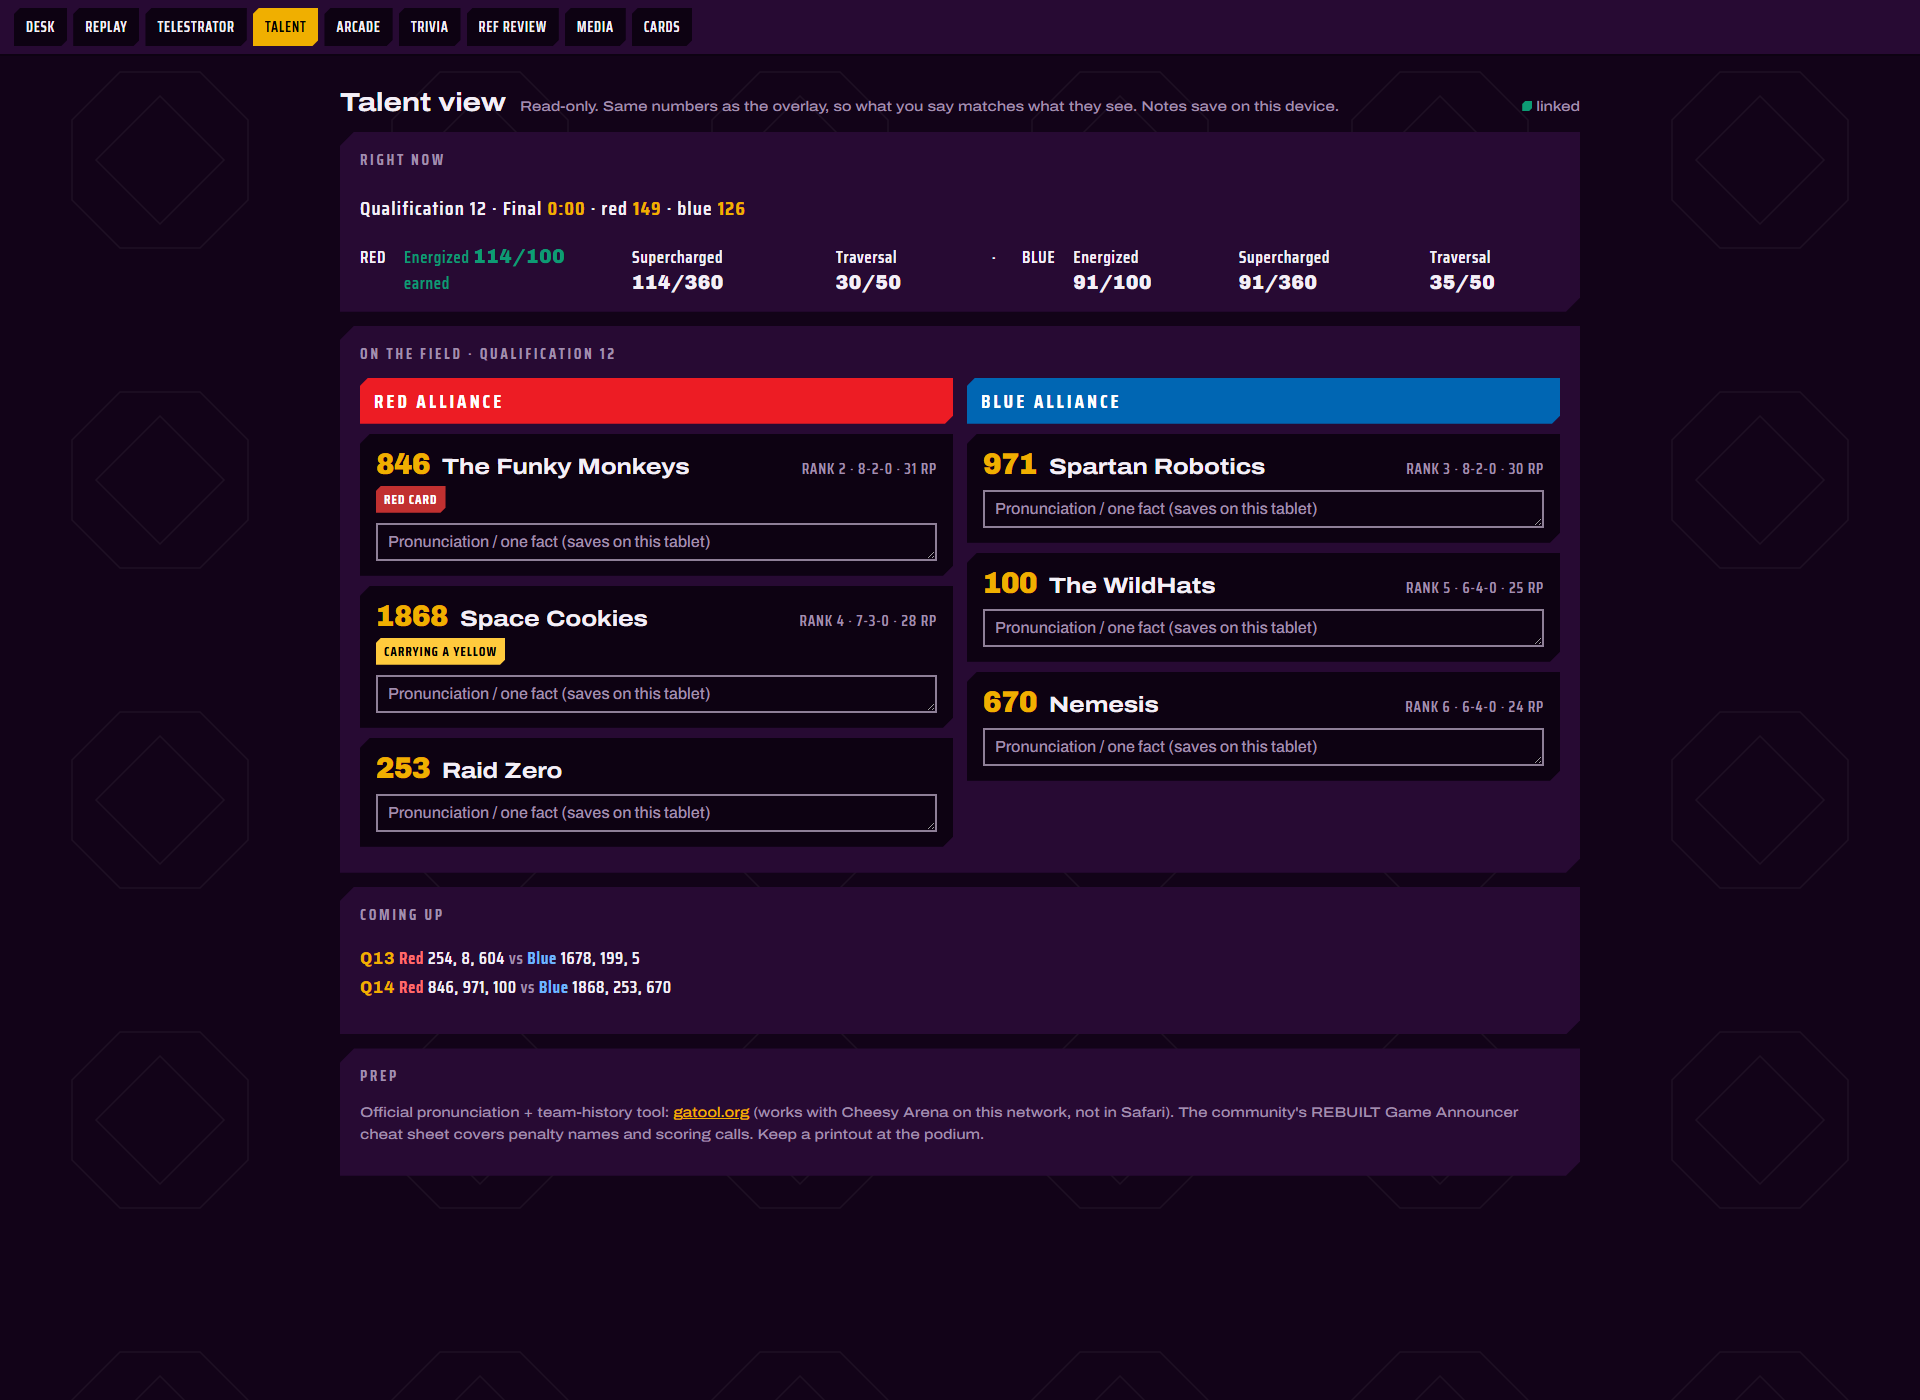
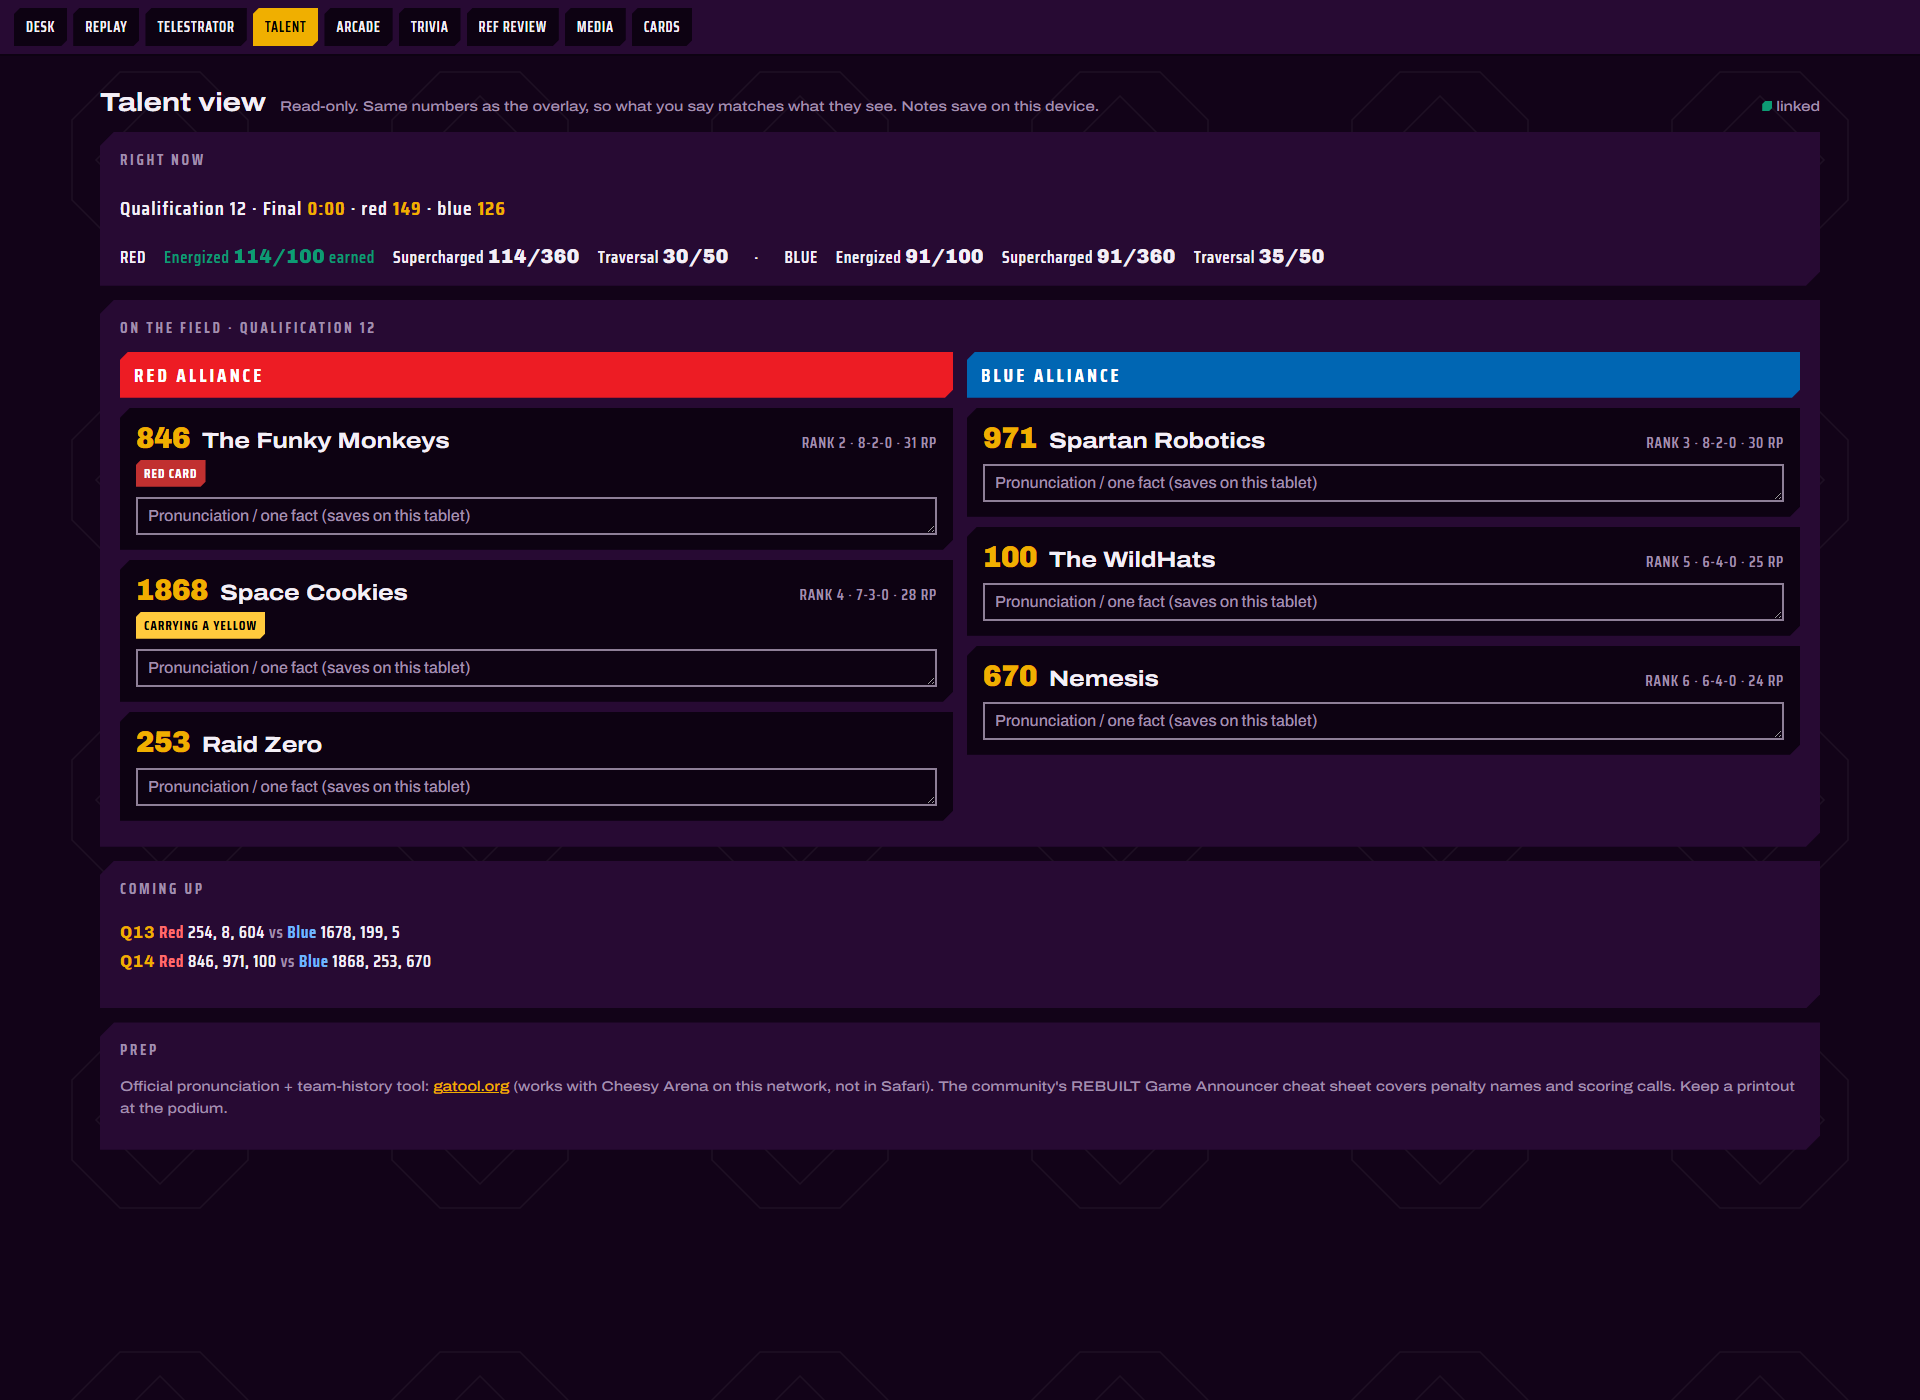
No monitor left with dead space: the index and every capped console go fluid
The landing page was one 860px column on any monitor. Its cards now tile
into as many 540px-minimum columns as the screen has, edge to edge.

The consoles that still carried width caps each get the treatment their
layout actually supports: trivia host flows its sections into 460px
multicol like the desk; arcade the same but at 620px, because five sections
across 460px columns left a fourth column standing empty on a 2400 monitor;
house audio splits its two sections half-and-half (not auto-fit — the
full-width bus plate occupies every repeated track, so empty tracks never
collapse and the sections pinned to minimum width); team media tiles its
upload queue and consent rows and pours the shooting notes into text
columns; head-referee review puts the flagged-moments list beside the
viewer so the ref looks and picks without scrolling; post-match cards caps
its square preview by monitor HEIGHT instead of width so the page can go
fluid without growing a preview taller than the screen; talent widens.

The phone and audience pages keep their narrow columns on purpose.

Verified by screenshot at 2400x1600 on all seven changed pages. 385 tests,
33 previews re-rendered.

Changed region(s): [[0.0312, 0.0614, 0.9688, 0.86], [0.7812, 0.0614, 0.8125, 0.0921]]

diff --git a/surfaces/media/index.html b/surfaces/media/index.html
@@ -8,7 +8,7 @@
 <link rel="stylesheet" href="/shared/fonts.css">
 <style>
 body { font-size: var(--font-ui-body); }
-.wrap { max-width: 1720px; margin: 0 auto; padding: 20px 24px 64px; }
+.wrap { margin: 0 auto; padding: 20px 24px 64px; }
 h1 { font-size: 26px; font-variation-settings: "wdth" 118; margin: 0 0 4px; }
 p.sub { color: var(--text-dim); margin: 0 0 22px; line-height: 1.6; }
 
@@ -19,9 +19,10 @@ p.sub { color: var(--text-dim); margin: 0 0 22px; line-height: 1.6; }
 #drop b { display: block; font-size: 18px; margin-bottom: 6px; }
 #drop span { color: var(--text-dim); }
 
-.queue { margin-top: 18px; }
+.queue { margin-top: 18px; display: grid;
+  grid-template-columns: repeat(auto-fill, minmax(min(560px, 100%), 1fr)); gap: 8px 14px; }
 .item { display: grid; grid-template-columns: 96px 1fr auto; gap: 14px; align-items: center;
-  background: var(--surface-raised); padding: 12px 16px; margin-bottom: 8px;
+  background: var(--surface-raised); padding: 12px 16px;
   clip-path: var(--chamfer); --ch: 10px; }
 /* Preview against the purple the graphic actually uses. White fringing and
    punched-through polycarb are invisible on white and glaring on purple. */
@@ -45,14 +46,19 @@ input:focus { outline: none; border-color: var(--accent); }
   overflow: hidden; clip-path: inset(50%); white-space: nowrap; border: 0; }
 #drop:has(.vh:focus-visible) { outline: 3px solid var(--focus-ring); outline-offset: -8px; }
 .tips { margin-top: 28px; padding: 16px 20px; background: var(--surface);
-  clip-path: var(--chamfer); --ch: 12px; font-size: 13px; line-height: 1.7; }
+  clip-path: var(--chamfer); --ch: 12px; font-size: 13px; line-height: 1.7;
+  /* Multicol text: full-width shooting notes would be 300-character lines. */
+  column-width: 560px; column-gap: 32px; }
 .tips h2 { font-family: var(--font-cond); font-weight: 700; font-size: 14px;
-  letter-spacing: .18em; text-transform: uppercase; color: var(--text-dim); margin: 0 0 8px; }
+  letter-spacing: .18em; text-transform: uppercase; color: var(--text-dim); margin: 0 0 8px;
+  column-span: all; }
 .tips b { color: var(--text); }
 .consent { margin-top: 28px; }
 .consent h2 { font-family: var(--font-cond); font-weight: 700; font-size: 14px;
   letter-spacing: .18em; text-transform: uppercase; color: var(--text-dim); margin: 0 0 8px; }
-.crow { display: flex; align-items: center; gap: 10px; padding: 8px 12px; margin-bottom: 6px;
+#consentList { display: grid;
+  grid-template-columns: repeat(auto-fill, minmax(min(380px, 100%), 1fr)); gap: 6px 12px; }
+.crow { display: flex; align-items: center; gap: 10px; padding: 8px 12px;
   background: var(--surface-sunken); clip-path: var(--chamfer); --ch: 8px; }
 .crow b { font-family: var(--font-num); font-weight: 900; min-width: 70px; }
 .cstate { font-family: var(--font-cond); letter-spacing: .1em; text-transform: uppercase;

diff --git a/surfaces/cards/index.html b/surfaces/cards/index.html
@@ -8,7 +8,8 @@
 <link rel="stylesheet" href="/shared/fonts.css">
 <style>
 body { font-size: var(--font-ui-body); }
-.wrap { max-width: 1000px; margin: 0 auto; padding: 18px 22px 60px; }
+.wrap { margin: 0 auto; padding: 18px 22px 60px; }
+@media (max-width: 860px) { .cols { grid-template-columns: 1fr !important; } }
 header { display: flex; align-items: baseline; gap: 14px; margin-bottom: 16px; }
 h1 { font-size: 24px; font-variation-settings: "wdth" 118; margin: 0; }
 .hint { color: var(--text-dim); font-size: 14px; line-height: 1.6; }
@@ -16,14 +17,17 @@ h1 { font-size: 24px; font-variation-settings: "wdth" 118; margin: 0; }
 .dot { width: 10px; height: 10px; clip-path: var(--chamfer); --ch: 3px; background: var(--st-bad); display: inline-block; }
 .dot[data-up="true"] { background: var(--st-ok); }
 
-.cols { display: grid; grid-template-columns: 1fr 320px; gap: 18px; align-items: start; }
+.cols { display: grid; grid-template-columns: minmax(0, 2fr) minmax(320px, 1fr); gap: 18px; align-items: start; }
 section { background: var(--surface-raised); padding: 16px 18px; margin-bottom: 14px;
   clip-path: var(--chamfer); --ch: 14px; }
 h2 { font-family: var(--font-cond); font-weight: 700; font-size: 14px;
   letter-spacing: .18em; text-transform: uppercase; color: var(--text-dim); margin: 0 0 12px; }
 
 /* The card is 1080x1080; show it responsively but download at full size. */
-.preview { width: 100%; aspect-ratio: 1/1; background: var(--cg-black); clip-path: var(--chamfer); --ch: 10px; }
+/* The card is a 1080 square: cap it by the monitor's HEIGHT, not its width,
+   so a wide screen never grows a preview taller than the screen itself. */
+.preview { width: min(100%, 74vh); margin: 0 auto; aspect-ratio: 1/1;
+  background: var(--cg-black); clip-path: var(--chamfer); --ch: 10px; }
 .preview canvas { width: 100%; height: 100%; display: block; }
 
 .row { display: flex; flex-wrap: wrap; gap: 8px; align-items: center; }

diff --git a/apps/core/src/server.ts b/apps/core/src/server.ts
@@ -1705,21 +1705,22 @@ export function startServer(opts: ServerOpts) {
   function sendIndex(res: ServerResponse): void {
     const groups = [...new Set(SURFACES.map(s => s.group))];
     const sections = groups.map(g =>
-      `<h2>${g}</h2>` + SURFACES.filter(s => s.group === g).map(s =>
+      `<h2>${g}</h2><div class="rows">` + SURFACES.filter(s => s.group === g).map(s =>
         `<a class="row" href="${surfacePath(s)}"><b>${s.name}</b><code>${surfacePath(s)}</code><i>${s.note}</i></a>`,
-      ).join('')).join('');
+      ).join('') + '</div>').join('');
     const html = `<!doctype html><html lang="en" data-surface="console"><head><meta charset="utf-8">
 <title>CalGames 2026 Content Desk</title>
 <link rel="stylesheet" href="/theme/tokens.css">
 <link rel="stylesheet" href="/shared/fonts.css">
 <style>
-body{padding:48px;max-width:860px;margin:0 auto;font-size:var(--font-ui-body)}
+body{padding:44px clamp(28px,4vw,84px) 80px;font-size:var(--font-ui-body)}
 h1{font-size:38px;font-variation-settings:"wdth" 118;margin:0 0 4px}
 p.sub{color:var(--text-dim);margin:0 0 26px}
 h2{font-family:var(--font-cond);font-weight:700;font-size:13px;letter-spacing:.2em;
   text-transform:uppercase;color:var(--accent);margin:30px 0 10px}
+.rows{display:grid;grid-template-columns:repeat(auto-fill,minmax(min(540px,100%),1fr));gap:10px 14px}
 .row{display:grid;grid-template-columns:1fr auto;gap:4px 16px;padding:16px 20px;
-  margin-bottom:10px;background:var(--surface-raised);text-decoration:none;color:var(--text);
+  background:var(--surface-raised);text-decoration:none;color:var(--text);
   clip-path:var(--chamfer);--ch:12px;transition:background var(--dur-tap) linear}
 .row:hover{background:var(--btn-hover)}
 .row:focus-visible{outline:3px solid var(--focus-ring)}

diff --git a/surfaces/var/index.html b/surfaces/var/index.html
@@ -20,7 +20,15 @@
  * Frame stepping is a server round trip per frame (ffmpeg seek plus a jpeg),
  * so expect a beat between presses. That is still faster than the argument. */
 body { font-size: 16px; }
-.wrap { max-width: 1180px; margin: 0 auto; padding: 16px 20px 50px; }
+.wrap { margin: 0 auto; padding: 16px 20px 50px; }
+/* A wide monitor puts the flagged-moments list NEXT TO the viewer: the ref
+   looks and picks without scrolling between them. */
+@media (min-width: 1500px) {
+  .wrap { display: grid; grid-template-columns: minmax(0, 1.5fr) minmax(420px, 1fr);
+    gap: 0 18px; align-items: start; }
+  .wrap > header, .wrap > .readonly { grid-column: 1 / -1; }
+  .marks { max-height: 62vh; }
+}
 header { display: flex; align-items: baseline; gap: 14px; margin-bottom: 10px; flex-wrap: wrap; }
 h1 { font-size: 24px; font-variation-settings: "wdth" 118; margin: 0; }
 .hint { color: var(--text-dim); font-size: 14px; line-height: 1.6; }

diff --git a/surfaces/arcadedesk/index.html b/surfaces/arcadedesk/index.html
@@ -8,7 +8,16 @@
 <link rel="stylesheet" href="/shared/fonts.css">
 <style>
 body { font-size: var(--font-ui-body); }
-.wrap { max-width: 1720px; margin: 0 auto; padding: 18px 22px 60px; }
+.wrap { margin: 0 auto; padding: 18px 22px 60px; }
+/* Column WIDTH, not page width: sections flow into as many 460px columns as
+   the monitor actually has — the same rule as the desk console. */
+@media (min-width: 1150px) {
+  /* 620, not the desk's 460: this page has five sections, and 460 makes four
+     columns on a 2400 monitor with nothing left for the fourth. */
+  .wrap { columns: 620px; column-gap: 18px; }
+  .wrap > section { break-inside: avoid; }
+  .wrap > header { column-span: all; }
+}
 header { display: flex; align-items: baseline; gap: 14px; margin-bottom: 14px; }
 h1 { font-size: 24px; font-variation-settings: "wdth" 118; margin: 0; }
 .hint { color: var(--text-dim); font-size: 14px; line-height: 1.6; }

diff --git a/surfaces/house/index.html b/surfaces/house/index.html
@@ -8,7 +8,14 @@
 <link rel="stylesheet" href="/shared/fonts.css">
 <style>
 body { font-size: var(--font-ui-body); }
-.wrap { max-width: 900px; margin: 0 auto; padding: 18px 22px 60px; }
+.wrap { margin: 0 auto; padding: 18px 22px 60px; }
+/* Two sections, two halves. Not auto-fit: the full-width header and bus
+   plate occupy every repeated track, so empty tracks never collapse and the
+   sections pin to their minimum instead of stretching. */
+@media (min-width: 1150px) {
+  .wrap { display: grid; grid-template-columns: 1fr 1fr; gap: 0 18px; align-items: start; }
+  .wrap > header, .wrap > .bus { grid-column: 1 / -1; }
+}
 header { display: flex; align-items: baseline; gap: 14px; margin-bottom: 14px; }
 h1 { font-size: 24px; font-variation-settings: "wdth" 118; margin: 0; }
 .spacer { margin-left: auto; }

diff --git a/surfaces/triviadesk/index.html b/surfaces/triviadesk/index.html
@@ -8,7 +8,14 @@
 <link rel="stylesheet" href="/shared/fonts.css">
 <style>
 body { font-size: var(--font-ui-body); }
-.wrap { max-width: 1720px; margin: 0 auto; padding: 18px 22px 60px; }
+.wrap { margin: 0 auto; padding: 18px 22px 60px; }
+/* Column WIDTH, not page width: sections flow into as many 460px columns as
+   the monitor actually has — the same rule as the desk console. */
+@media (min-width: 1150px) {
+  .wrap { columns: 460px; column-gap: 18px; }
+  .wrap > section { break-inside: avoid; }
+  .wrap > header { column-span: all; }
+}
 header { display: flex; align-items: baseline; gap: 14px; margin-bottom: 14px; }
 h1 { font-size: 24px; font-variation-settings: "wdth" 118; margin: 0; }
 .hint { color: var(--text-dim); font-size: 14px; line-height: 1.6; }

diff --git a/surfaces/talent/index.html b/surfaces/talent/index.html
@@ -16,7 +16,7 @@
    Pronunciation and fact notes live in THIS device's localStorage. The GA
    types them once during Friday practice and they persist all weekend. */
 body { font-size: 16px; }
-.wrap { max-width: 1240px; margin: 0 auto; padding: 18px 22px 60px; }
+.wrap { max-width: 1720px; margin: 0 auto; padding: 18px 22px 60px; }
 header { display: flex; align-items: baseline; gap: 14px; margin-bottom: 14px; }
 h1 { font-size: 26px; font-variation-settings: "wdth" 118; margin: 0; }
 .hint { color: var(--text-dim); font-size: 14px; line-height: 1.6; }
